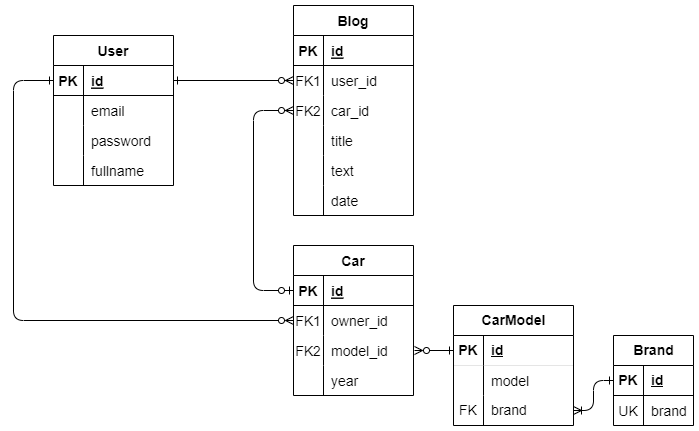
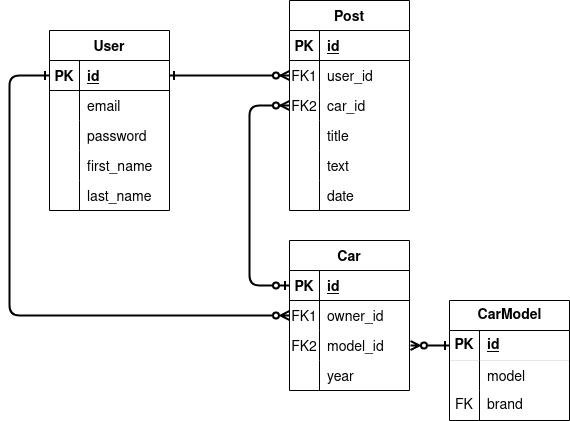
Changed diagram and added more views

Changed region(s): [[0.0, 0.0, 1.0, 1.0]]

diff --git a/web/templates/web/base.html b/web/templates/web/base.html
@@ -11,8 +11,8 @@
             <a href="{% url 'registration' %}">Регистрация</a>
             <a href="{% url 'auth' %}">Авторизация</a>
         {% else %}
-            <a href="">Мой блог</a>
-            <a href="">Создать запись</a>
+            <a href="{% url 'blog' %}">Мой блог</a>
+            <a href="{% url 'create_post' %}">Создать запись</a>
             <a href="{% url 'logout' %}">Выйти</a>
         {% endif %}
     </nav>

diff --git a/web/templates/web/blog.html b/web/templates/web/blog.html
@@ -1,0 +1,4 @@
+{% extends 'web/base.html' %}
+{% block content %}
+    Привет, {{ user.username }}
+{% endblock %}

diff --git a/web/templates/web/createPost.html b/web/templates/web/createPost.html
@@ -1,0 +1,4 @@
+{% extends 'web/base.html' %}
+{% block content %}
+    Привет, {{ user.username }}
+{% endblock %}

diff --git a/web/templates/web/post.html b/web/templates/web/post.html
@@ -1,0 +1,4 @@
+{% extends 'web/base.html' %}
+{% block content %}
+    Привет, {{ user.username }}
+{% endblock %}

diff --git a/web/models.py b/web/models.py
@@ -4,13 +4,9 @@ from django.contrib.auth import get_user_model
 User = get_user_model()
 
 
-class Brand(models.Model):
-    brand = models.CharField(max_length=256)
-
-
 class CarModel(models.Model):
     model = models.CharField(max_length=256)
-    brand = models.ForeignKey(Brand, on_delete=models.CASCADE)
+    brand = models.CharField(max_length=256)
 
 
 class Car(models.Model):
@@ -20,7 +16,7 @@ class Car(models.Model):
     image = models.ImageField(upload_to='car_images/', null=True, blank=True)
 
 
-class Blog(models.Model):
+class Post(models.Model):
     title = models.CharField(max_length=256)
     text = models.TextField()
     user = models.ForeignKey(User, on_delete=models.CASCADE)

diff --git a/web/migrations/0004_rename_blog_post_alter_carmodel_brand_delete_brand.py b/web/migrations/0004_rename_blog_post_alter_carmodel_brand_delete_brand.py
@@ -1,0 +1,27 @@
+# Generated by Django 4.2.8 on 2024-02-06 17:01
+
+from django.conf import settings
+from django.db import migrations, models
+
+
+class Migration(migrations.Migration):
+
+    dependencies = [
+        migrations.swappable_dependency(settings.AUTH_USER_MODEL),
+        ('web', '0003_car_image'),
+    ]
+
+    operations = [
+        migrations.RenameModel(
+            old_name='Blog',
+            new_name='Post',
+        ),
+        migrations.AlterField(
+            model_name='carmodel',
+            name='brand',
+            field=models.CharField(max_length=256),
+        ),
+        migrations.DeleteModel(
+            name='Brand',
+        ),
+    ]

diff --git a/web/urls.py b/web/urls.py
@@ -1,10 +1,14 @@
 from django.contrib import admin
 from django.urls import path
-from web.views import main_view, registration_view, auth_view, logout_view
+from web.views import *
 
 urlpatterns = [
     path('', main_view, name='main'),
+    path('home', main_view, name='main'),
     path('registration/', registration_view, name='registration'),
     path('auth/', auth_view, name='auth'),
-    path('logout/', logout_view, name='logout')
+    path('logout/', logout_view, name='logout'),
+    path('blog/', blog_view, name='blog'),
+    path('post/', post_view, name='post'),
+    path('createPost/', create_post_view, name='create_post')
 ]

diff --git a/web/views.py b/web/views.py
@@ -1,7 +1,7 @@
 from django.shortcuts import render, redirect
 from django.http import HttpResponse
 from web.forms import RegistrationForm, AuthForm
-from django.contrib.auth import get_user_model, authenticate, login, logout
+from django.contrib.auth import *
 
 User = get_user_model()
 
@@ -52,5 +52,13 @@ def logout_view(request):
     return redirect('main')
 
 
-def myblog_view(request):
-    return
+def blog_view(request):
+    return render(request, 'web/blog.html')
+
+
+def post_view(request):
+    return render(request, 'web/post.html')
+
+
+def create_post_view(request):
+    return render(request, 'web/createPost.html')
